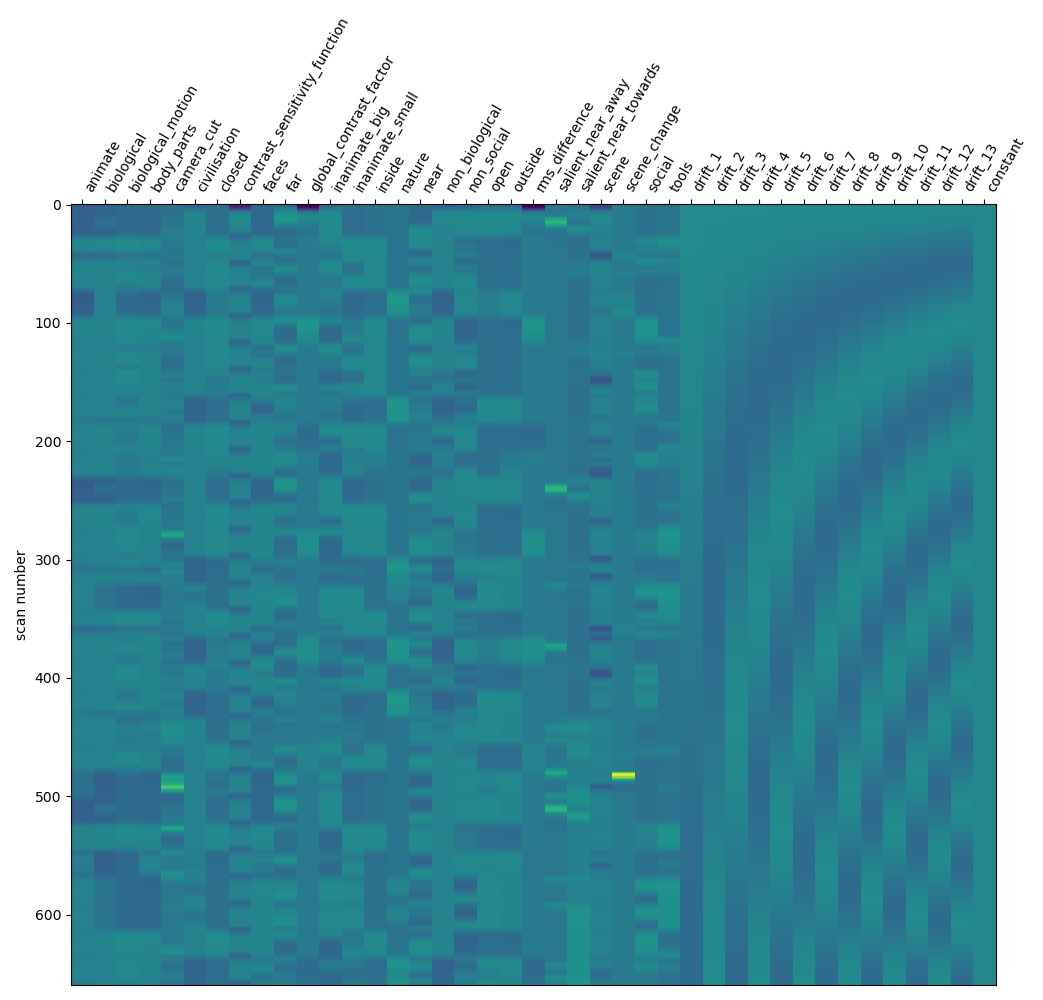
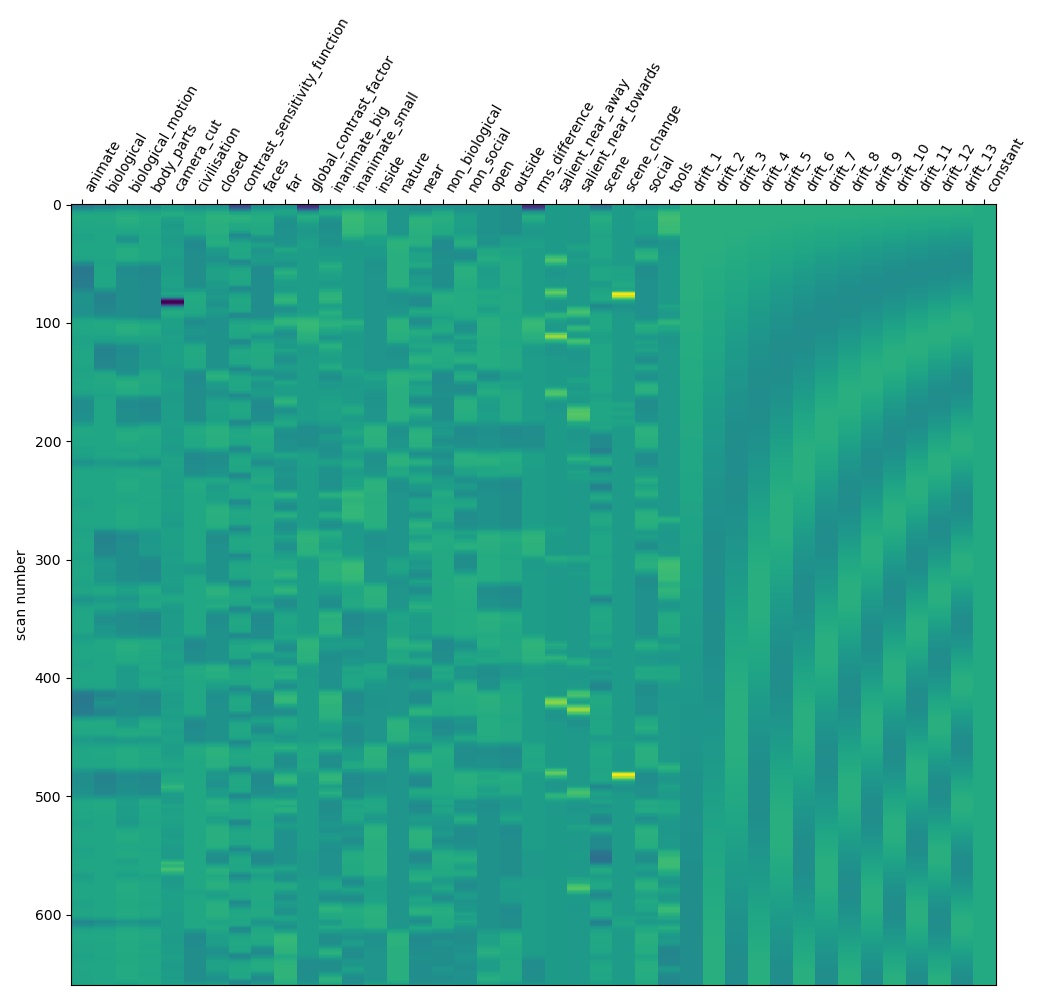
implementing bold noise modelling

diff --git a/model_efficiency.py b/model_efficiency.py
@@ -1,0 +1,107 @@
+
+from nilearn.glm.first_level import FirstLevelModel
+from model_design_matrix import get_design_matrix
+from bold_noise import bold_noise
+import pandas as pd
+import nibabel as nib
+import numpy as np
+from matplotlib import pyplot as plt
+
+from test_efficiency_calc import get_henson_events
+
+def fit_model(events, signal_con, test_con, scale_type='peak2peak', tr=1.0):
+
+    nsamples=1000
+
+    X = get_design_matrix(events, sample_with_replacement=True, tr=tr)
+    nscans=len(X)
+    print(f'nscans {nscans}')
+    bn=bold_noise(nscans=nscans)
+    
+    subject_data = bn.generate(nsamples=nsamples)
+
+    Y = pd.eval(signal_con) 
+    if scale_type=='peak2peak':
+        Ymin = Y.min()
+        Ymax = Y.max()
+        Y =  (Y - Ymin - 1) * (Ymax-Ymin)/2
+
+    Y = Y* 100
+
+    noise_std = subject_data.std(axis=0).mean()
+    sig_std = np.std(Y)
+
+    subject_data = subject_data + np.array(Y).reshape(nscans,1)
+
+    print(f'Noise std {noise_std} Signal std {sig_std}')
+
+    img = nib.Nifti1Image(subject_data.T.reshape(nsamples,1,1,nscans), np.eye(4))
+
+    fmri_glm = FirstLevelModel(t_r=tr, hrf_model='spm', mask_img=False)
+    fmri_glm = fmri_glm.fit(img, design_matrices=[X])
+
+    z_map = fmri_glm.compute_contrast(test_con, output_type='z_score')
+    return z_map
+
+if __name__=='__main__':
+    dohenson=True
+    tr=2
+
+    if dohenson:
+        events, des = get_henson_events()
+    else:
+        events = pd.read_pickle('./events_per_movie.pickle')
+    
+    signal_con=0
+
+    all_trial_type=list(set().union(*[set(events[x].trial_type) for x in events]))
+    all_trial_type.sort()
+
+    all_vals={}
+
+    
+    if dohenson:
+        con_list={x:1 for x in all_trial_type} 
+    else:
+        con_list=['animate',  
+            {'biological_motion':1 , 'body_parts': 1},
+            {'biological':1, 'social':1},
+            'faces', 
+            {'inanimate_small':1, 'tools':1},
+            'inanimate_big',
+            'non_social',  {'salient_near_away':1, 'far':1},
+            'salient_near_towards', 
+            'near',  
+            {'closed':1, 'inside':1}, 
+            {'open': 1, 'outside': 1, 'nature': 1},
+            'scene', 
+            {'non_biological':1, 'civilisation':1},
+            'camera_cut',
+            {'contrast_sensitivity_function':1, 'global_contrast_factor':1, 'rms_difference':1},
+            'scene_change',
+        ]
+
+    #all_trial_type = ['open', 'outside', 'nature', ['open','outside','nature']]
+    for ind, trial_type in enumerate(con_list):
+        if isinstance(trial_type, str):
+            trial_type={trial_type: 1}
+        sig_con='+'.join([str(val) + '*X.' + key for key, val in trial_type.items()])
+        test_con='+'.join([str(val) + '*' + key for key, val in trial_type.items()])
+        con_label='+'.join([str(val) + '*' + key[:8] for key, val in trial_type.items()])
+
+        if dohenson:
+            ev = {'oneev': events[ind]}
+        else:
+            ev= events
+
+        vals=fit_model(ev, sig_con, test_con, tr).get_fdata()
+        all_vals[con_label] = np.mean(vals)
+        
+    fig=plt.figure()
+    ax = plt.bar(all_vals.keys(), all_vals.values())
+    plt.xticks(rotation=90)
+    plt.rcParams.update({'font.size': 4})
+    plt.tight_layout()
+    
+    plt.savefig('model_efficiency_bar.jpg')
+  

diff --git a/test_efficiency_calc.py b/test_efficiency_calc.py
@@ -1,0 +1,63 @@
+# -*- coding: utf-8 -*-
+"""
+Testing efficiency by recreating figure http://imaging.mrc-cbu.cam.ac.uk/images/eff_friston.gif on this page https://imaging.mrc-cbu.cam.ac.uk/imaging/DesignEfficiency
+
+@author: Rhodri Cusack
+"""
+
+import numpy as np
+from single_column_efficiency import efficiency_calc
+from matplotlib import pyplot as plt
+import pandas as pd
+from nilearn.glm.first_level import make_first_level_design_matrix
+from nilearn.plotting import plot_design_matrix
+
+def get_henson_events(ntp=64):
+    # Make event prob dist
+    des=[]
+    des.append((np.arange(ntp)%8==0).astype(np.float))
+    des.append(np.ones(ntp)*0.5)
+    des.append(np.abs(np.cos(2*np.pi*np.arange(ntp)/16)))
+    des.append(np.abs(np.cos(2*np.pi*np.arange(ntp)/32)))
+    des.append(np.abs(np.cos(2*np.pi*np.arange(ntp)/64)))
+    des.append((np.arange(ntp)<32).astype(np.float))
+    ndes = len(des)
+
+    # Make events
+    events={}
+    
+    for axind in range(ndes):
+        r=np.random.uniform(size=(ntp,1))
+        events[axind]=pd.DataFrame()
+        for t in range(ntp):
+            if r[t]<des[axind][t]:
+                ev={'onset':t,'duration':1,'trial_type':f'vanilla{axind}'}
+                events[axind] = events[axind].append(ev, ignore_index=True)
+    return events, des
+
+
+if __name__=='__main__':
+    ntp=64
+    events, des= get_henson_events(ntp=ntp)
+    ndes=len(events)
+
+    con=np.zeros((2,1))
+    con[0]=1
+    eff=[]
+    
+    X=[]
+    fig=plt.figure()
+    gs = fig.add_gridspec(ndes, 2)
+    for axind in range(ndes):
+        ax=fig.add_subplot(gs[axind,0])            
+        X=make_first_level_design_matrix(np.arange(ntp), events=events[axind], hrf_model='spm', drift_model=None)
+        ax.bar(range(ntp),des[axind])
+        eff.append(efficiency_calc(X,con))
+        
+    ax=fig.add_subplot(gs[:,1])
+    ax.barh(np.arange(0.5,ndes+0.5),eff)
+    ax.set_ylim(ndes, 0)
+    plt.savefig('test_efficiency.jpg')
+    print(eff)
+
+

diff --git a/bold_noise.py b/bold_noise.py
@@ -1,0 +1,53 @@
+import numpy as np
+from matplotlib import pyplot as plt
+
+class bold_noise:
+    noisetype=None
+    nsamples=None
+    nscans=None
+    tr=None
+
+    # first noise parameter is constant across frequency, second scales with period
+    NOISE_PARMS={'adult': [4.86, 0.1636],
+                }
+
+    def __init__(self, noisetype='adult', nsamples=1, nscans=256, tr=2):
+        self.noisetype = noisetype
+        self.nscans = int(nscans)
+        self.tr = tr
+        self.scaling = 200
+        if not self.nscans%2==0:
+            raise('nscans must be a multiple of two') 
+
+        
+    def generate(self, nsamples=1):
+        nyquist = 0.5 / self.tr
+        freq = np.linspace(0, nyquist, int(self.nscans/2)+1).reshape(int(self.nscans/2)+1,1)
+        freq[0] = np.nan
+        period = 1.0 / freq
+        noise_power = self.NOISE_PARMS[self.noisetype][0] + period * self.NOISE_PARMS[self.noisetype][1]
+        noise_power = self.scaling * noise_power * np.exp(1j * np.random.uniform(low=0.0, high=np.pi*2, size=(noise_power.shape[0], nsamples)))
+        noise_mirror = np.concatenate( (np.zeros((1,nsamples)), noise_power[1:-1,:], np.flip(noise_power[1:,:], axis=0).conjugate()))
+        self.noise_power = noise_power
+        self.sample = np.abs(np.fft.ifft(noise_mirror, axis=0))
+        self.freq = freq
+
+        return self.sample
+
+    def show(self):
+        fig, ax = plt.subplots( ncols=2)
+        x=np.tile(self.freq,(1,self.noise_power.shape[1]))
+        ax[0].plot(x, self.noise_power)
+        ax[0].set_xlabel('Frequency (Hz)')
+        ax[0].set_ylabel('Spectrum level')
+        ax[0].set_xscale('log')
+        ax[0].set_yscale('log')
+        ax[1].plot(self.sample)
+        ax[1].set_xlabel('Time (s)')
+        
+
+if __name__=='__main__':
+    bn=bold_noise()
+    sample = bn.generate(10)
+    bn.show()
+    plt.savefig('bold_power.jpg')

diff --git a/model_design_matrix.py b/model_design_matrix.py
@@ -57,10 +57,9 @@ def get_df_events(all_events, rest_length = 2.0, sample_with_replacement=False):
     return df_events_concat
 
 
-def get_design_matrix(events_dict, rest=0.00, hrf='spm', sample_with_replacement=False):
+def get_design_matrix(events_dict, rest=0.00, hrf='spm', sample_with_replacement=False, tr=1.0):
     #make design matrix for stacked events
     #param events_dict: the dict of movie event files (keys mov_name, values dataframe)
-    tr = 1.0
     n_scans = (22 * len(events_dict)) + (rest*len(events_dict))
     frame_times = np.arange(n_scans) * tr
 
